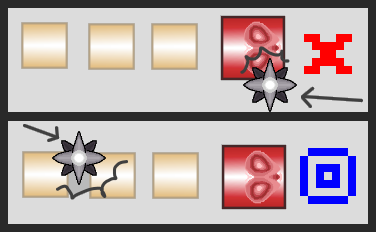
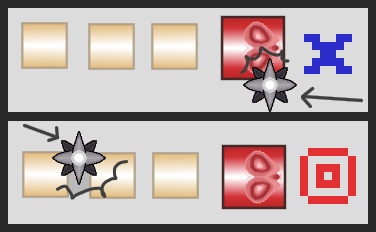
チュートリアルの調整

Changed region(s): [[0.7899, 0.6336, 0.9654, 0.9052], [0.7899, 0.1207, 0.9362, 0.3319]]

diff --git a/main.cpp b/main.cpp
@@ -73,9 +73,9 @@ int WINAPI WinMain(HINSTANCE, HINSTANCE, LPSTR, int) {
 
 			if (isStop) {
 
-
+				
 				//UIアップデート
-				ui.Update(player.mStrikeTutorial);
+				ui.Update(player.mStrikeTutorial, player.mIsStrikeActive);
 
 
 				//初期化
